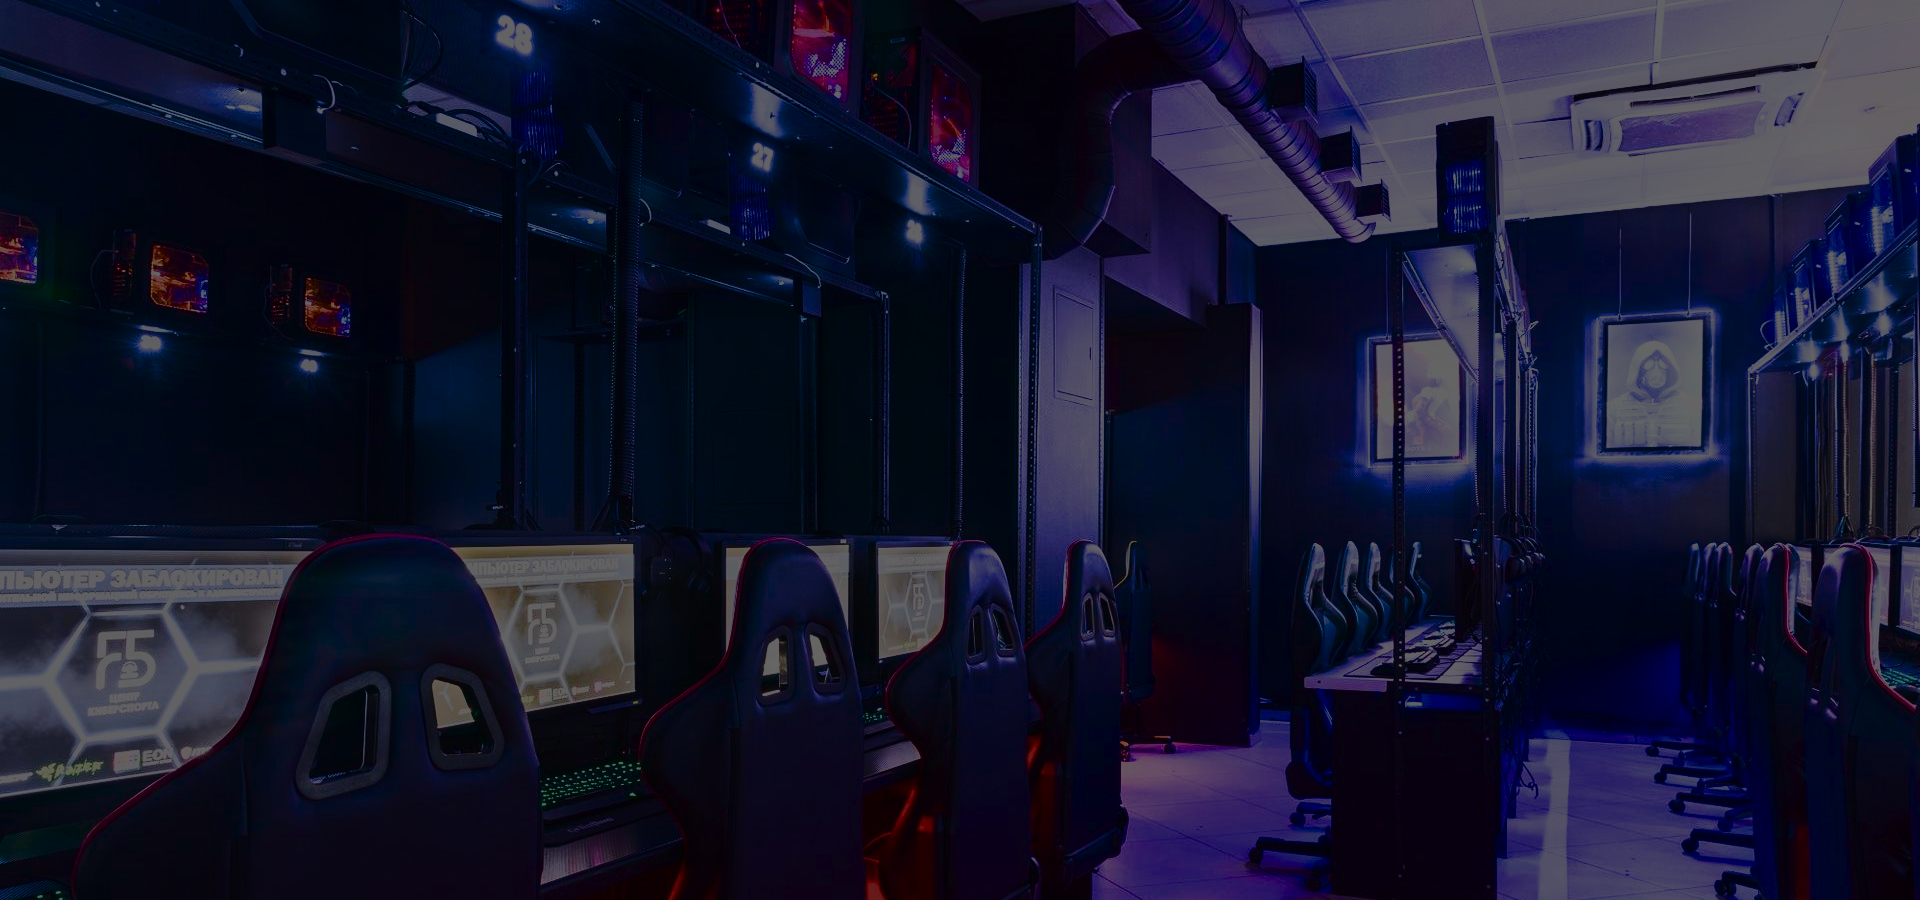
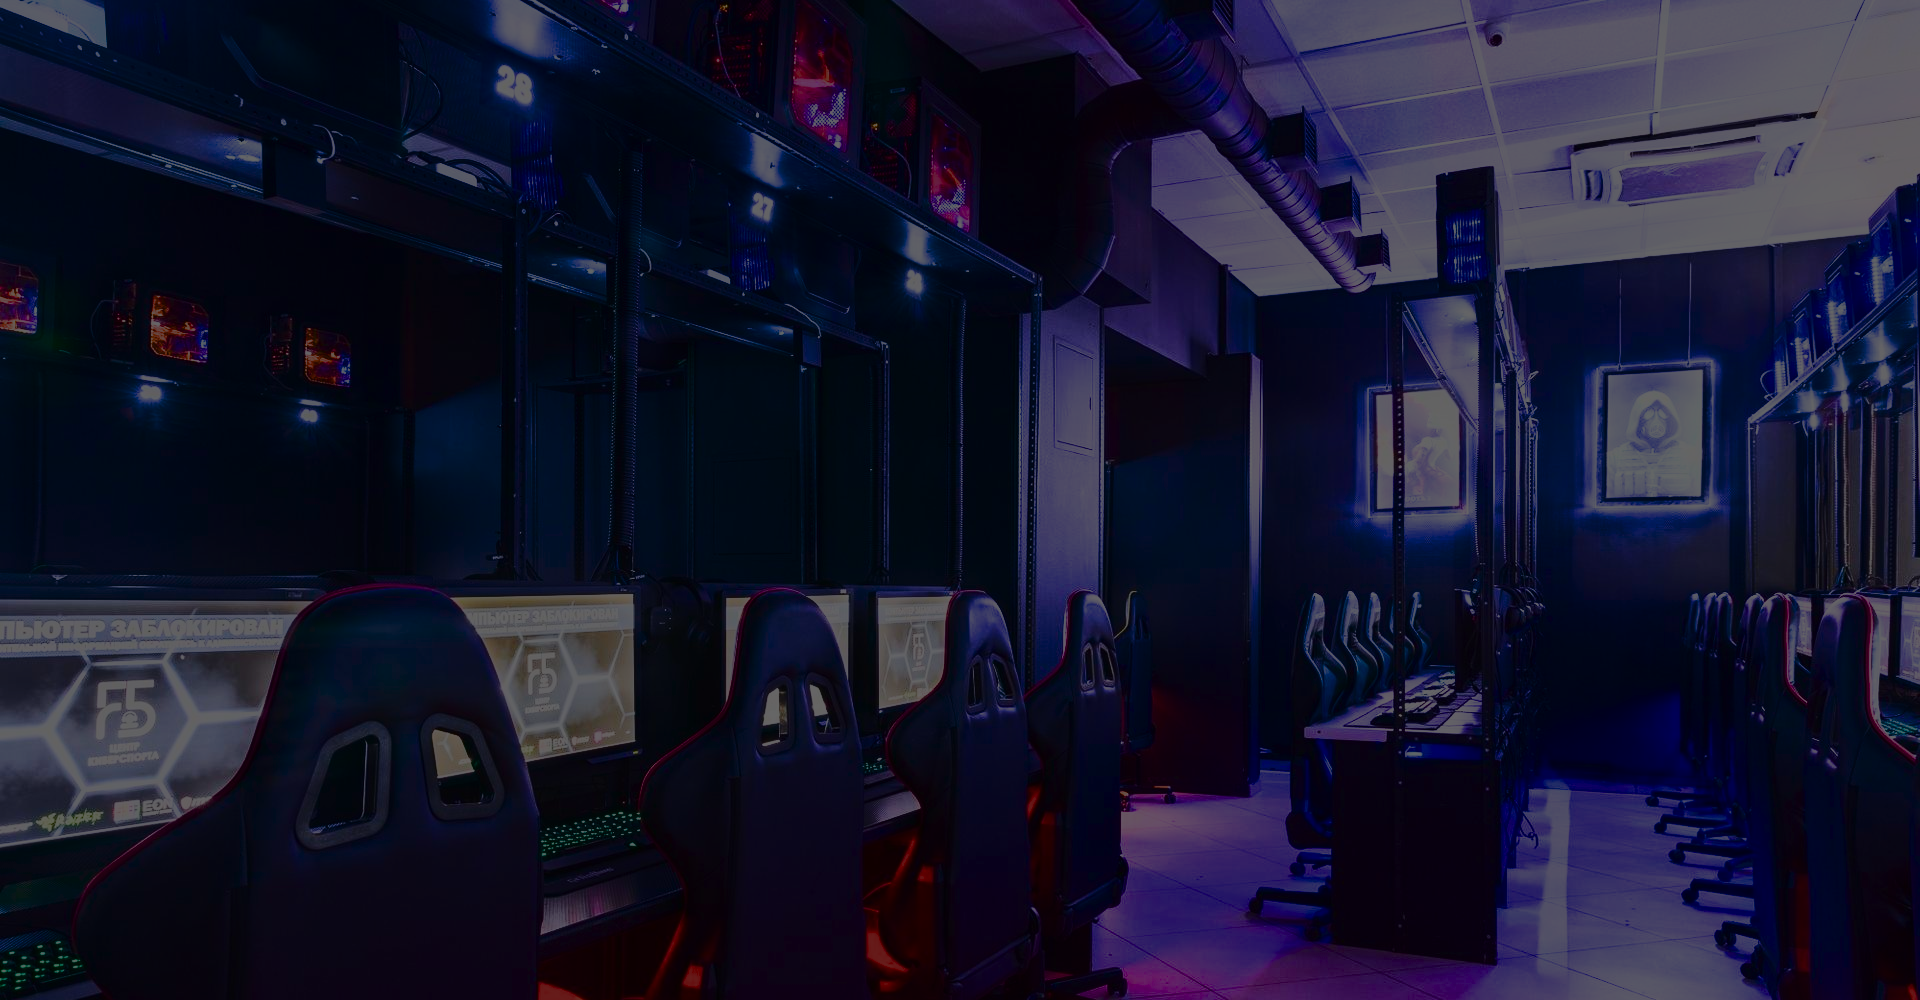
Add files via upload

diff --git a/css/style.css b/css/style.css
@@ -35,6 +35,10 @@
         display: none;
     }
 
+    .content-bg-laptop {
+        display: none;
+    }
+
     .arrow-left-phone {
         display: none;
     }
@@ -52,6 +56,14 @@
     }
 
     .img3-phone {
+        display: none;
+    }
+
+    .logo2 {
+        display: none;
+    }
+
+    .menu-burger {
         display: none;
     }
 
@@ -172,7 +184,8 @@
     .content-bg {
         position: fixed;
         left: 0px;
-        top: 140px;
+        top: 0px;
+        height: 100%;
         z-index: -10;
     }
     
@@ -540,7 +553,7 @@
         display: block;
         position: relative;
         left: 0px;
-        top: 1303px;    
+        top: 2208px;    
     }
     
     .content5 .bg5 {
@@ -1004,7 +1017,6 @@
     }
 
     header {
-        
         top: 0;
         left: 0;
     }
@@ -1133,7 +1145,7 @@
 
     .content-bg-phone {
         position: fixed;
-        top: 0;
+        top: 40;
         left: 0;
         z-index: -100;
     }
